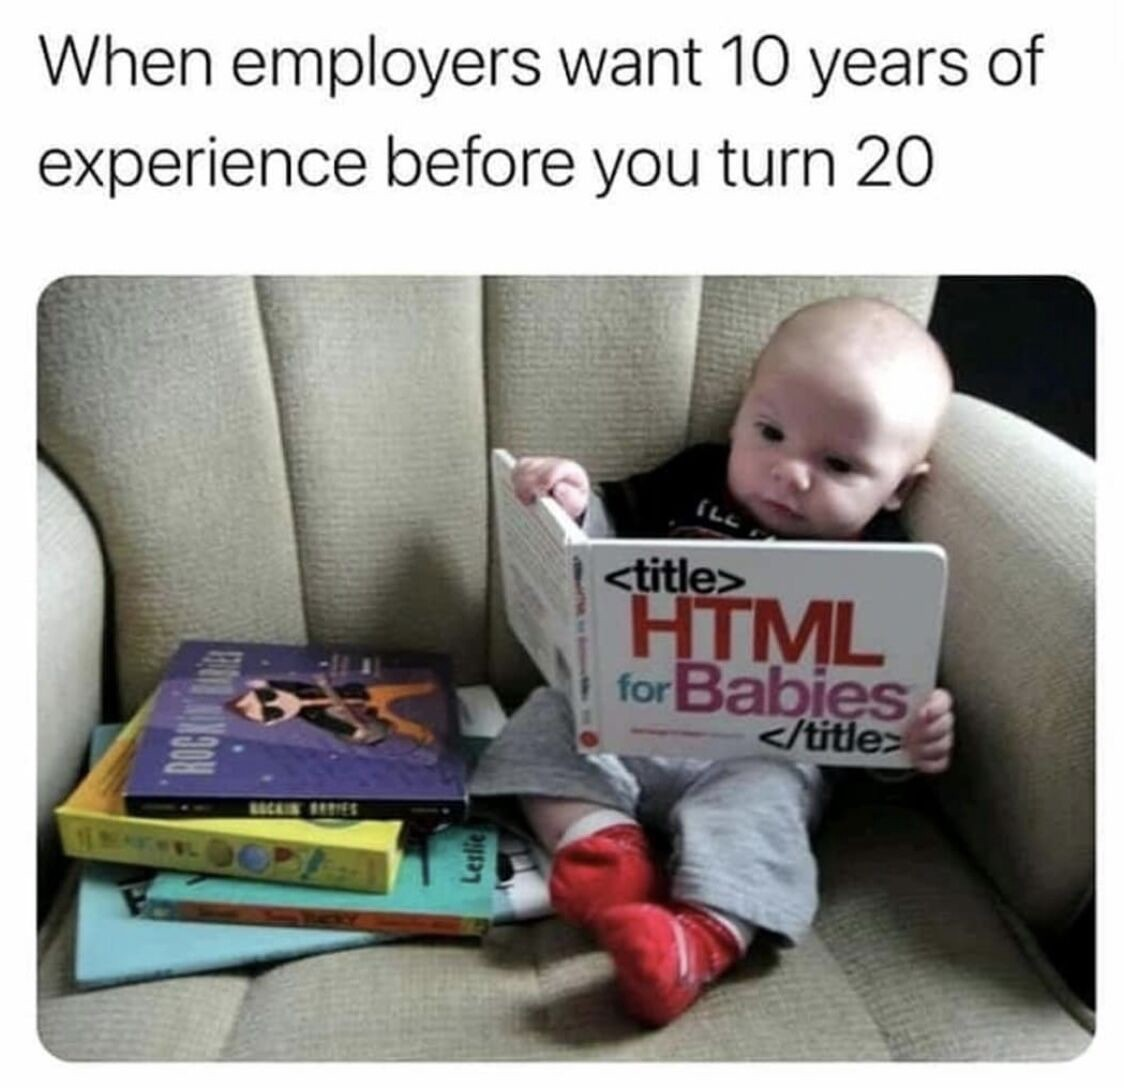
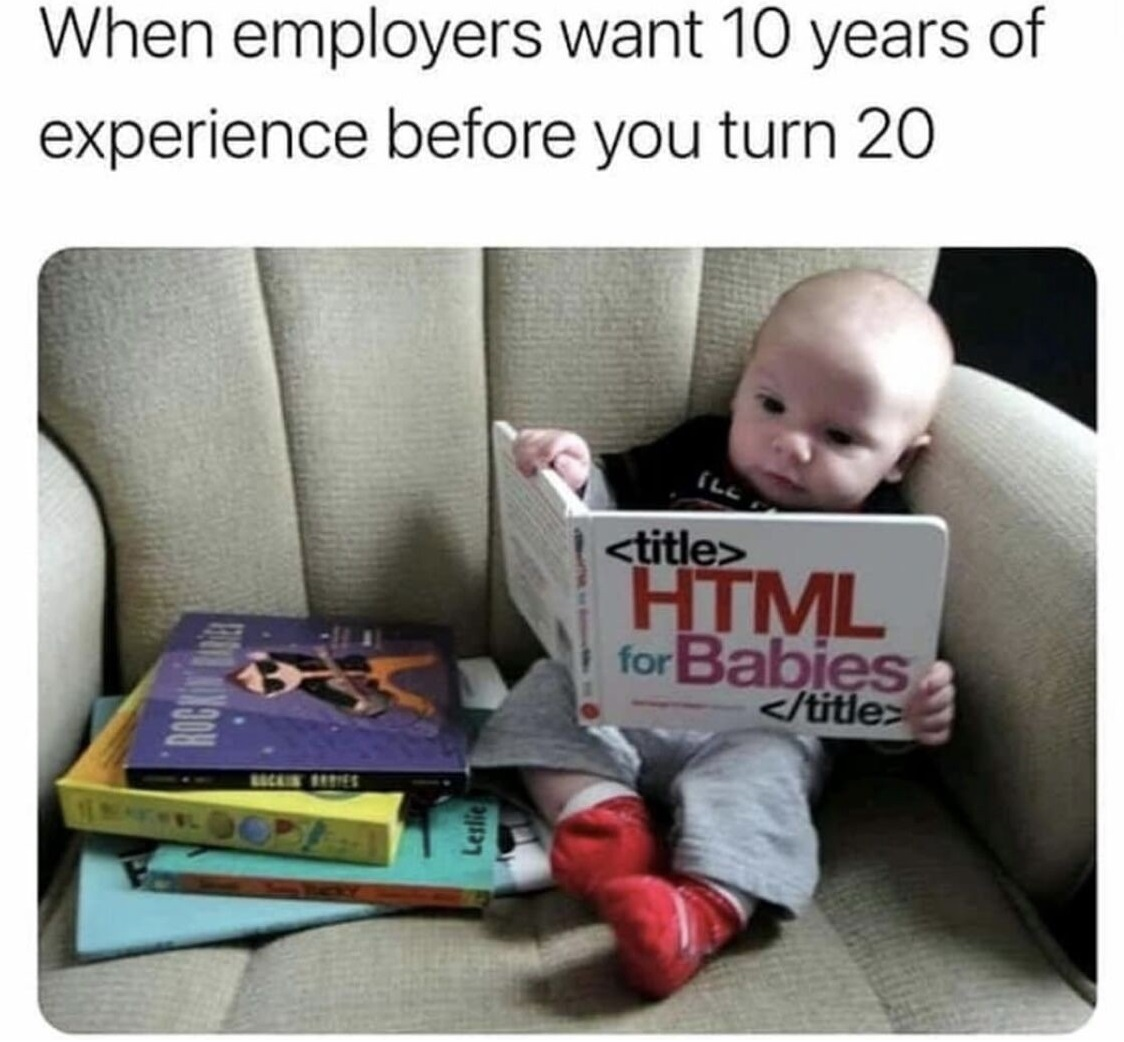
fix: change memes and fix some css 2021-10-16 15:21:42

diff --git a/cssMemSlider/index.html b/cssMemSlider/index.html
@@ -20,36 +20,36 @@
         <input type="radio" name="radio" id="input4" />
         <div class="slider">
           <div id="one" class="slide slide1">
-            <img src="./slides/1.png" alt="1" width="1000" height="571" />
+            <img src="./slides/5.jpg" alt="1" width="1000" height="571" />
           </div>
           <div id="two" class="slide slide2">
-            <img src="./slides/2.jpg" alt="1" width="1000" height="571" />
+            <img src="./slides/2.png" alt="1" width="1000" height="571" />
           </div>
           <div id="three" class="slide slide3">
             <img src="./slides/3.jpeg" alt="1" width="1000" height="571" />
           </div>
           <div id="four" class="slide slide4">
-            <img src="./slides/4.png" alt="1" width="1000" height="571" />
+            <img src="./slides/4.jpg" alt="1" width="1000" height="571" />
           </div>
         </div>
         <div class="description">
-          <div class="description__text description__text1">We are memes</div>
-          <div class="description__text description__text2">Sponge Bob</div>
+          <div class="description__text description__text1">CSS in JS</div>
+          <div class="description__text description__text2">JS -> TS</div>
           <div class="description__text description__text3">Baby JS</div>
-          <div class="description__text description__text4">Hulk!</div>
+          <div class="description__text description__text4">Java VS JS</div>
         </div>
         <div class="buttons">
           <label class="radio-container radio-container1" for="input1"
-            ><div class="label-wrapper"></div>
+            ><span class="label-wrapper"></span>
           </label>
           <label class="radio-container radio-container2" for="input2"
-            ><div class="label-wrapper"></div>
+            ><span class="label-wrapper"></span>
           </label>
           <label class="radio-container radio-container3" for="input3"
-            ><div class="label-wrapper"></div>
+            ><span class="label-wrapper"></span>
           </label>
           <label class="radio-container radio-container4" for="input4"
-            ><div class="label-wrapper"></div>
+            ><span class="label-wrapper"></span>
           </label>
         </div>
       </div>

diff --git a/cssMemSlider/style.css b/cssMemSlider/style.css
@@ -24,7 +24,6 @@
   overflow: hidden;
 }
 .slider {
-  margin: 0 auto;
   display: flex;
   box-sizing: border-box;
   width: 400%;
@@ -39,11 +38,8 @@
   list-style: none;
 }
 .slide img {
-  height: 100%;
   width: 100%;
-}
-.slider .slide:target {
-  z-index: 100;
+  height: 100%;
 }
 .description {
   width: 1600%;
@@ -54,15 +50,13 @@
 .description__text {
   font-family: 'Roboto';
   font-style: normal;
+  font-size: 1rem;
   width: 25%;
   padding: 0px;
-  transition: all 0.6s ease-in-out;
-}
-.description__text1 {
+  transition: all 0.4s ease-in-out;
 }
 .buttons {
   background-color: rgb(73, 69, 64);
-  overflow: hidden;
   justify-self: end;
   grid-area: buttons;
   display: flex;
@@ -75,7 +69,7 @@ input[type='radio'] {
   cursor: pointer;
   display: flex;
   align-items: center;
-  justify-content: center;
+  justify-content: flex-end;
   box-sizing: border-box;
   padding: 2px;
   width: 25px;
@@ -137,4 +131,12 @@ input[type='radio'] {
 #input1:checked ~ .buttons .radio-container:hover .label-wrapper {
   border-color: rgb(199, 137, 137);
   background-color: rgb(52, 52, 141);
+}
+
+.radio-container:active .label-wrapper,
+#input4:active ~ .buttons .radio-container:hover .label-wrapper,
+#input3:active ~ .buttons .radio-container:hover .label-wrapper,
+#input2:active ~ .buttons .radio-container:hover .label-wrapper,
+#input1:active ~ .buttons .radio-container:hover .label-wrapper {
+  border-color: rgb(34, 184, 29);
 }
